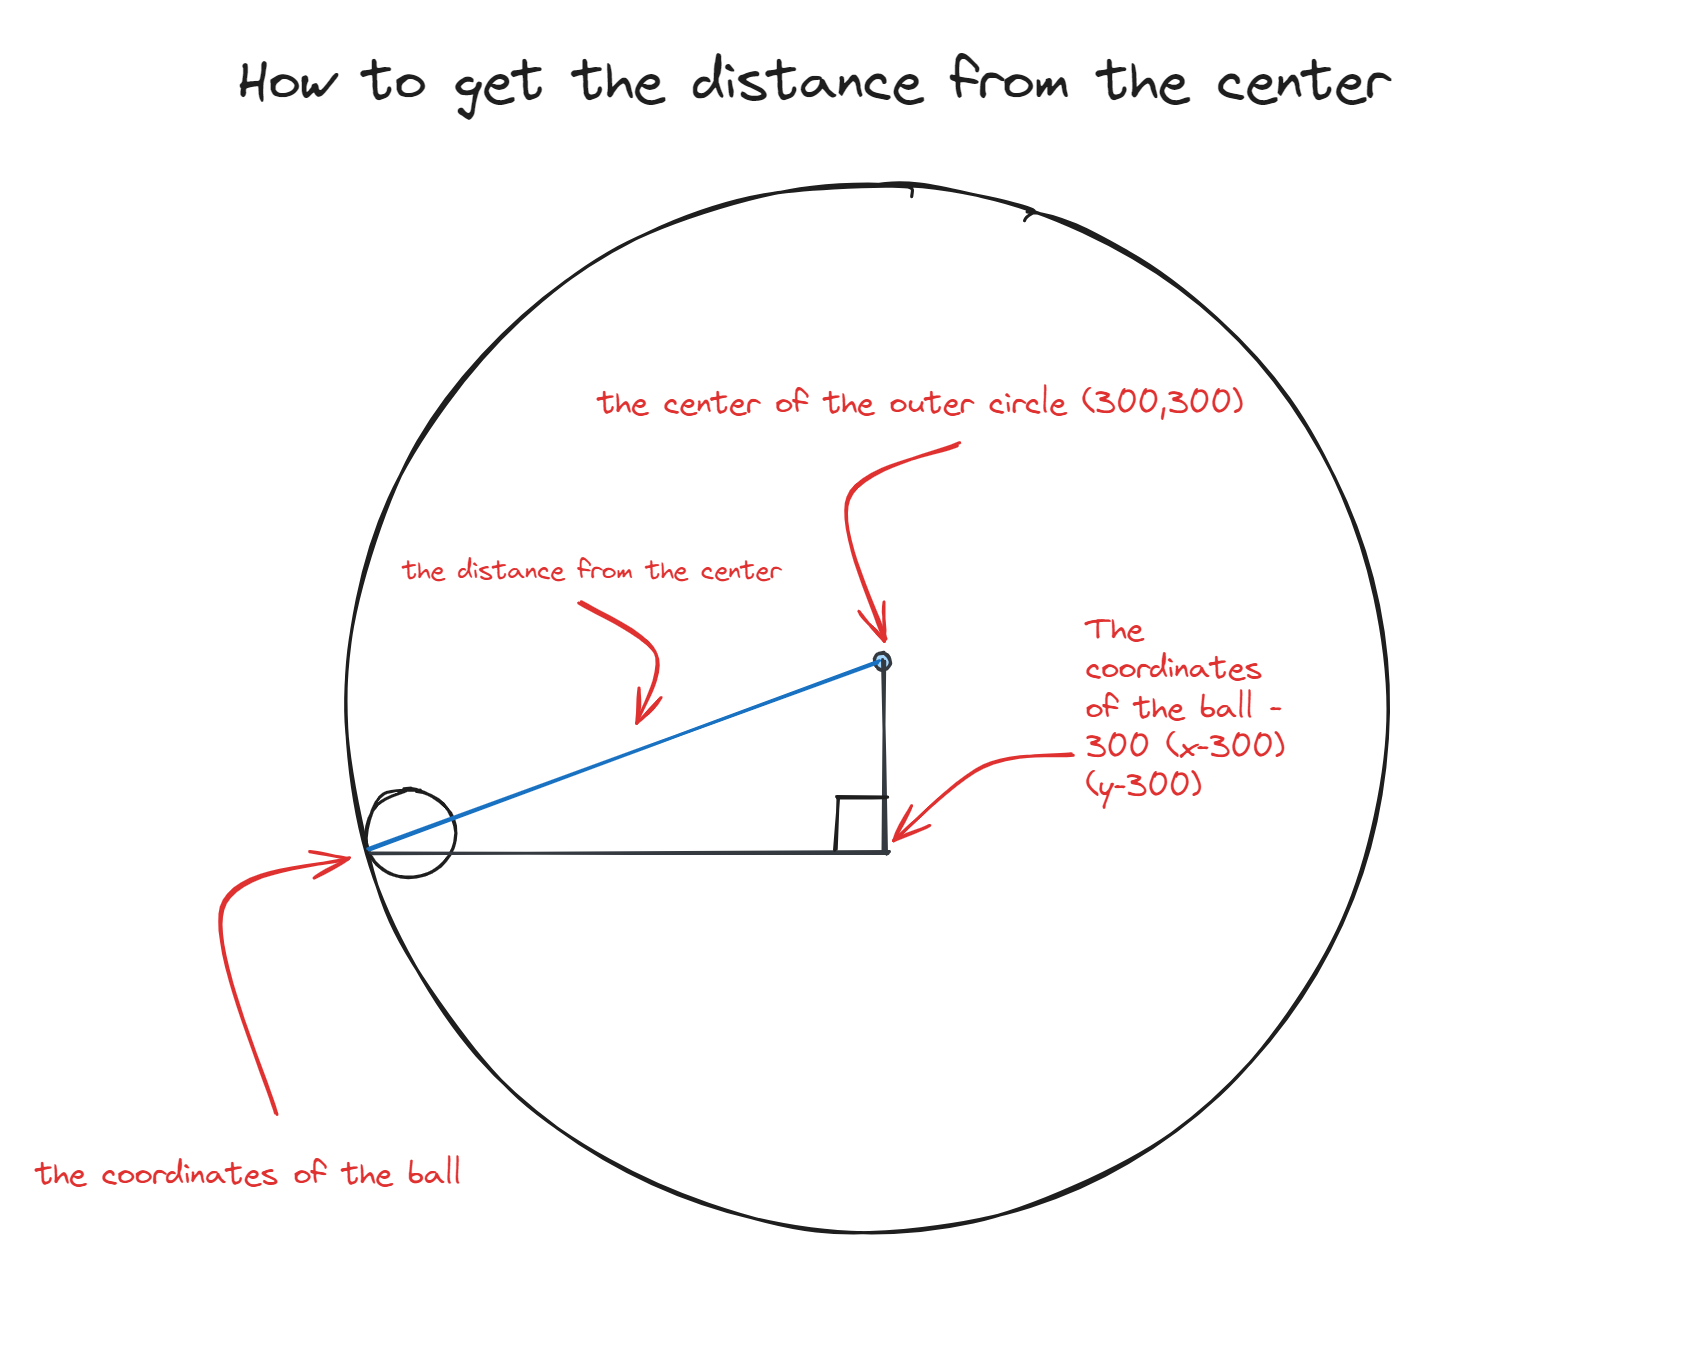
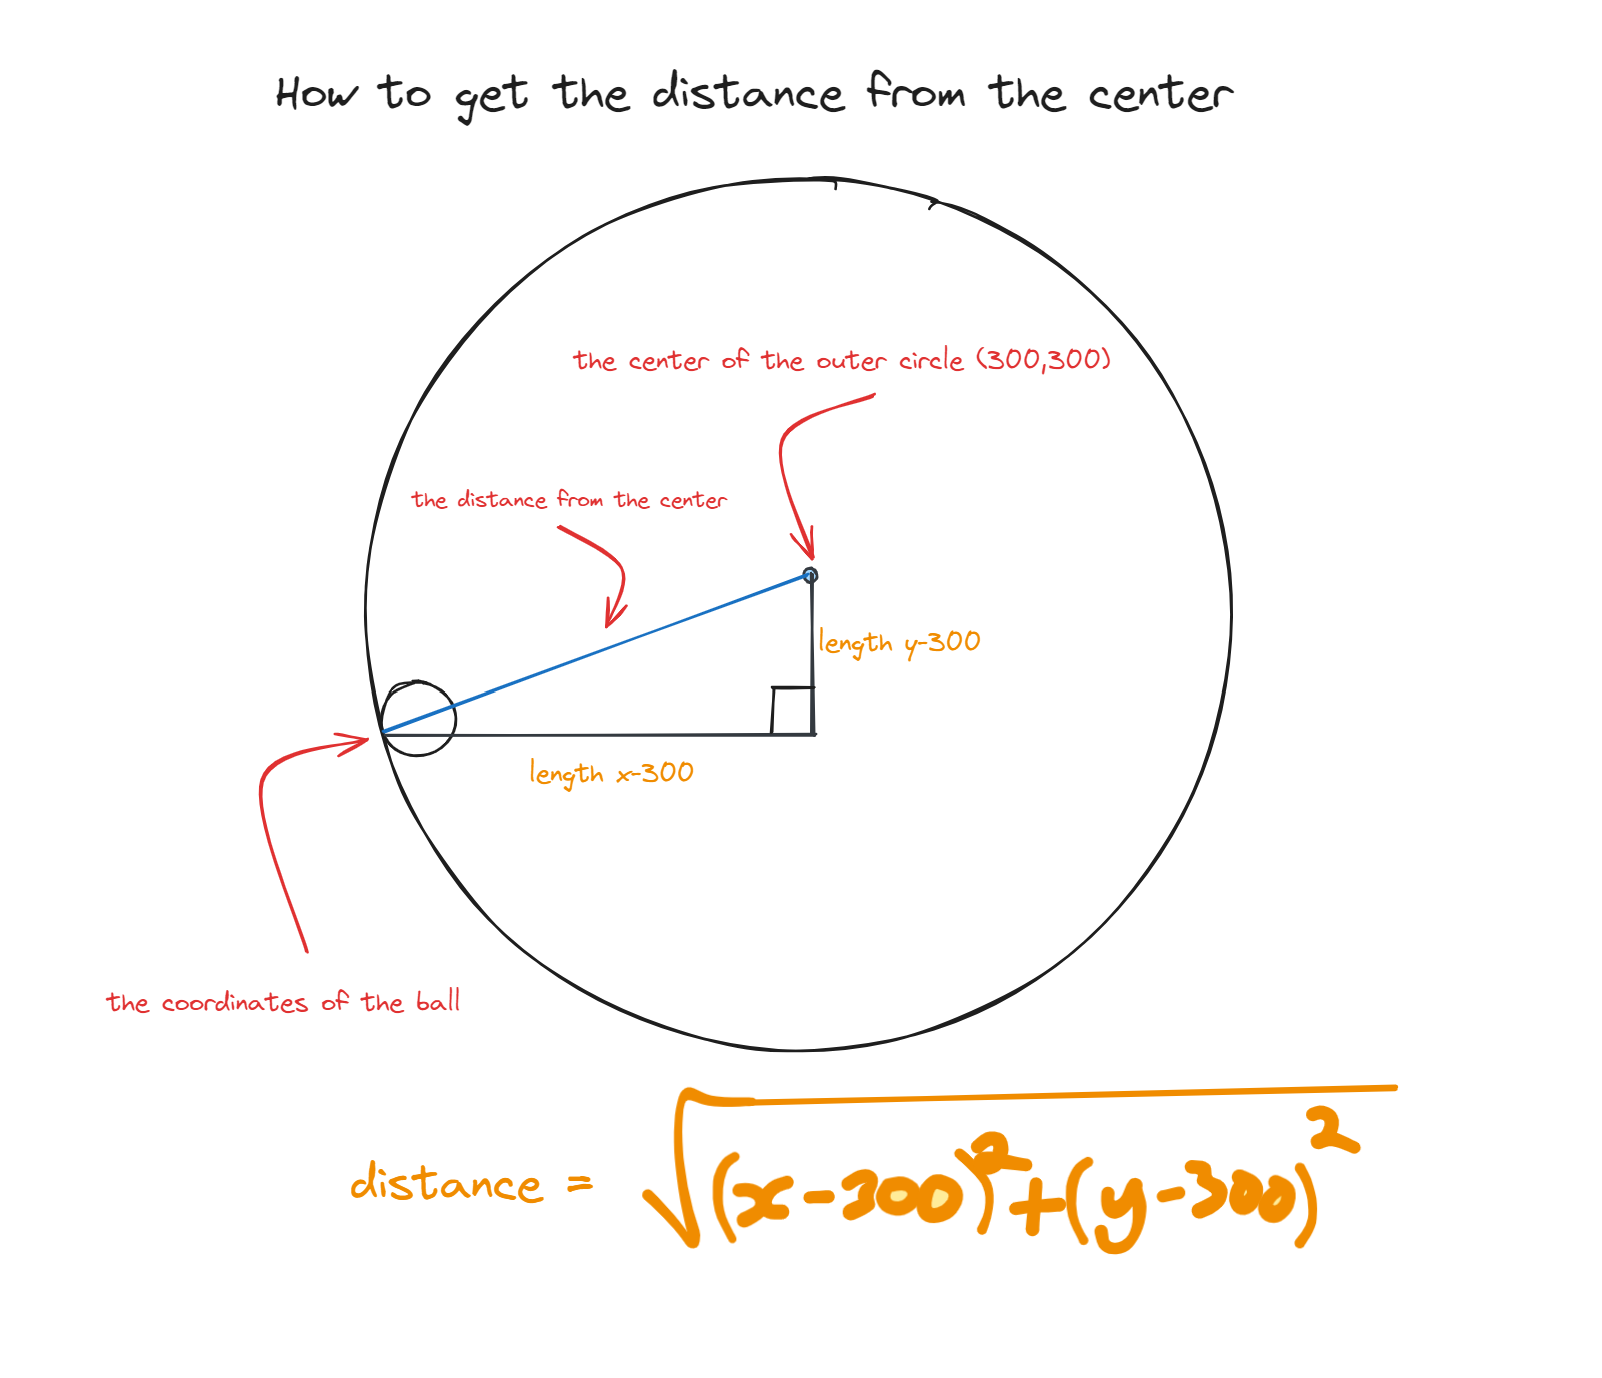
code go brrrr

diff --git a/create/posts/bouncing-ball.md b/create/posts/bouncing-ball.md
@@ -6,7 +6,7 @@ IS_POPULAR=F
 ----------
 Recently [this video](https://www.youtube.com/watch?v=Mu6hloC7ty8&ab_channel=GreenCode) came up on my YouTube, I liked the idea of making satisfying simulations with code and had some post-exams free time on my hands so I thought I would try it for myself.
 
-This was **far** more tricky that I thought it was going to be and also ended up being the first time I ever used high school math in real life. I really enjoyed the project and learning, so here's a post to share them with my friends and cement my understandings.
+This was **far** more tricky that I thought it was going to be and also ended up being the first time I ever used high school maths in real life. I really enjoyed the project and learning, so here's a post to share them with my friends and cement my understandings.
 
 I'm going to walk through the steps that it took to get the foundation of these simulations going, it's not perfect but the meat and potatoes are there. By the end you'll be able to simulate some basic physics and have something that looks like this.
 
@@ -114,8 +114,6 @@ A vector is a quantity that has both magnitude (length) and direction. In our ca
 
 A normal vector is just a vector that's perpendicular (90 degrees) to a surface. In this case the normal vector is going to represent the direction from the point of collision towards the center of the circle.
 
-<img src="/images/bouncy-bouncy/normal_vector_drawng.png" alt="graph1">
-
 But how do we calculate the normal vector?
 
 We first have to find the vector pointing from the ball towards the center, we can do this quickly by subtracting 300 (recall that the center of the large circle is 300,300) from both the x and y coordinates of the ball. Which will get the same point on the opposite side of the circle. As seen in the image below. 
@@ -132,9 +130,22 @@ Then once we have the vector pointing directly from the ball to the center we ne
 normal_length = math.sqrt(normal[0] ** 2 + normal[1] ** 2)
 ```
 
+But you may have realised a problem, this is gonna get really big really fast, and we don't actually care about the length, we only care about the direction so we can [normalize](https://www.khanacademy.org/computing/computer-programming/programming-natural-simulations/programming-vectors/a/vector-magnitude-normalization#:~:text=To%20normalize%20a%20vector%2C%20therefore,the%20unit%20vector%20readily%20accessible.) this value. To make it more normal and avoid things like [buffer overflow](https://en.wikipedia.org/wiki/Buffer_overflow) and let's us have more accurate, less exaggerated velocities. 
+
+We can do this by dividing each component of the vector by its magnitude again this will keep the overall direction of the vector the same, whilst managing the overall length. 
+
+```python
+normal = [normal[0] / normal_length, normal[1] / normal_length]
+```
+In fancy terms this is now called a *unit vector* because it has a length of 1.
+
 Ok cool, now we have the normal vector, that wasn't so hard but how is this going to help us bounce? Intuitively we can't just make the ball exactly from the point and back, this isn't how bouncing works. When I throw a ball at an edge it doesn't just move straight back towards me, but how it bounces should be impacted by the angle and speed that the ball collided with the target. 
 
-To do this we first we need to calculate the dot product between the velocity and normal vectors, the dot product is a way to multiply two vectors that results in a single number. It combines the corresponding components of the vectors and then sums the products to do so. In this scenario the dot product between the velocity and normal vector's tells us how much of the velocity is directed towards the surface. 
+To do this we first we need to calculate the dot product between the velocity and normal vectors, the dot product is a way to multiply two vectors that results in a single number. It combines the corresponding components of the vectors and then sums the products to do so.
+
+In this scenario the dot product between the velocity and normal vector's tells us how much of the velocity is directed towards the collision point. A positive dot product means that the ball is moving towards the collision point, and a negative means it is moving away.  
+
+Here's an example that skip's normalization for simplicity sake.
 
 <img src="/images/bouncy-bouncy/dot-product.png">
 
@@ -173,9 +184,7 @@ self.x -= normal[0] * overlap
 self.y -= normal[1] * overlap
 ```
 
-And that's all the maths and physics done. Easy peasy! Now to get things cooking let's
-
-Let's quickly add a draw method
+And that's all the maths and physics done. Easy peasy! Now to get things cooking let's quickly add a draw method to draw the bouncing ball to the screen. 
 
 ```python
 def draw(self):
@@ -261,8 +270,7 @@ class BouncingBall:
             # Calculate the normal vector at the point of collision
             normal = [self.x - 300, self.y - 300]
             normal_length = math.sqrt(normal[0] ** 2 + normal[1] ** 2)
-            # Can normalize but I haven't noticed a big difference
-            #normal = [normal[0] / normal_length, normal[1] / normal_length]
+            normal = [normal[0] / normal_length, normal[1] / normal_length]
 
             # Reflect the ball's velocity around the normal vector
             dot_product = self.velocity[0] * normal[0] + self.velocity[1] * normal[1]
